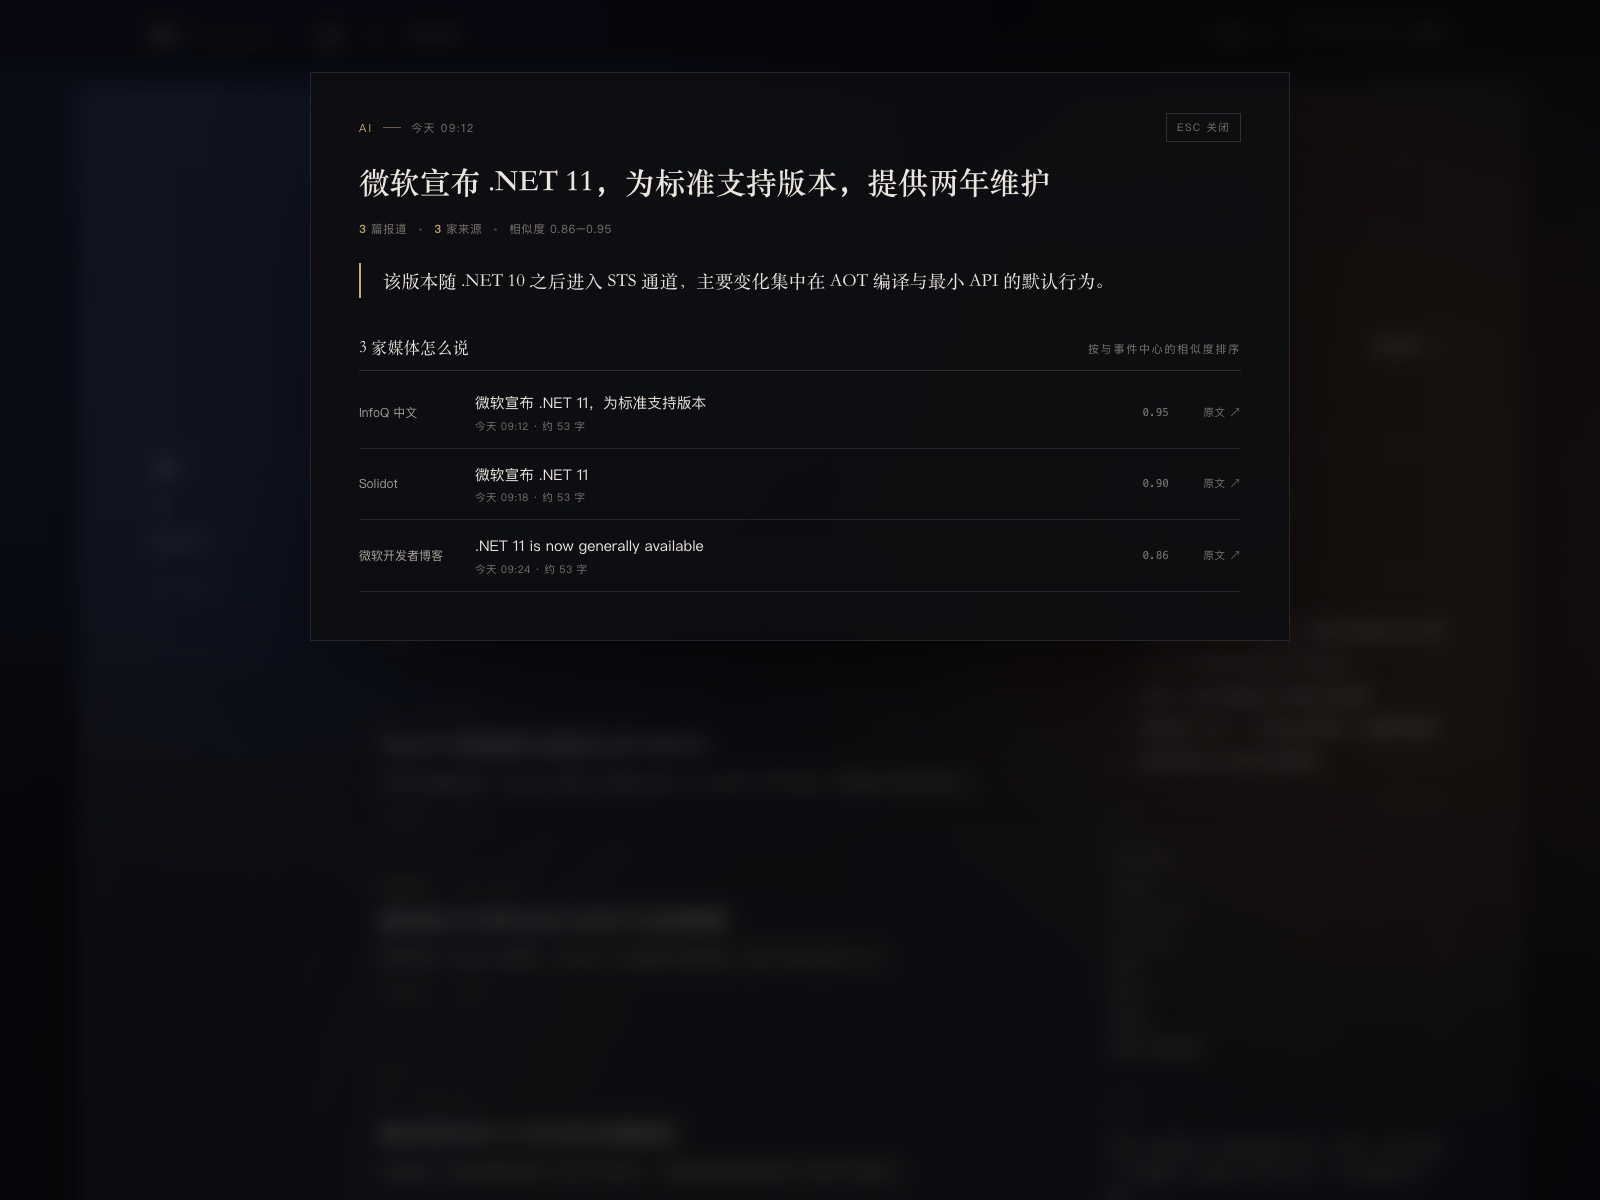
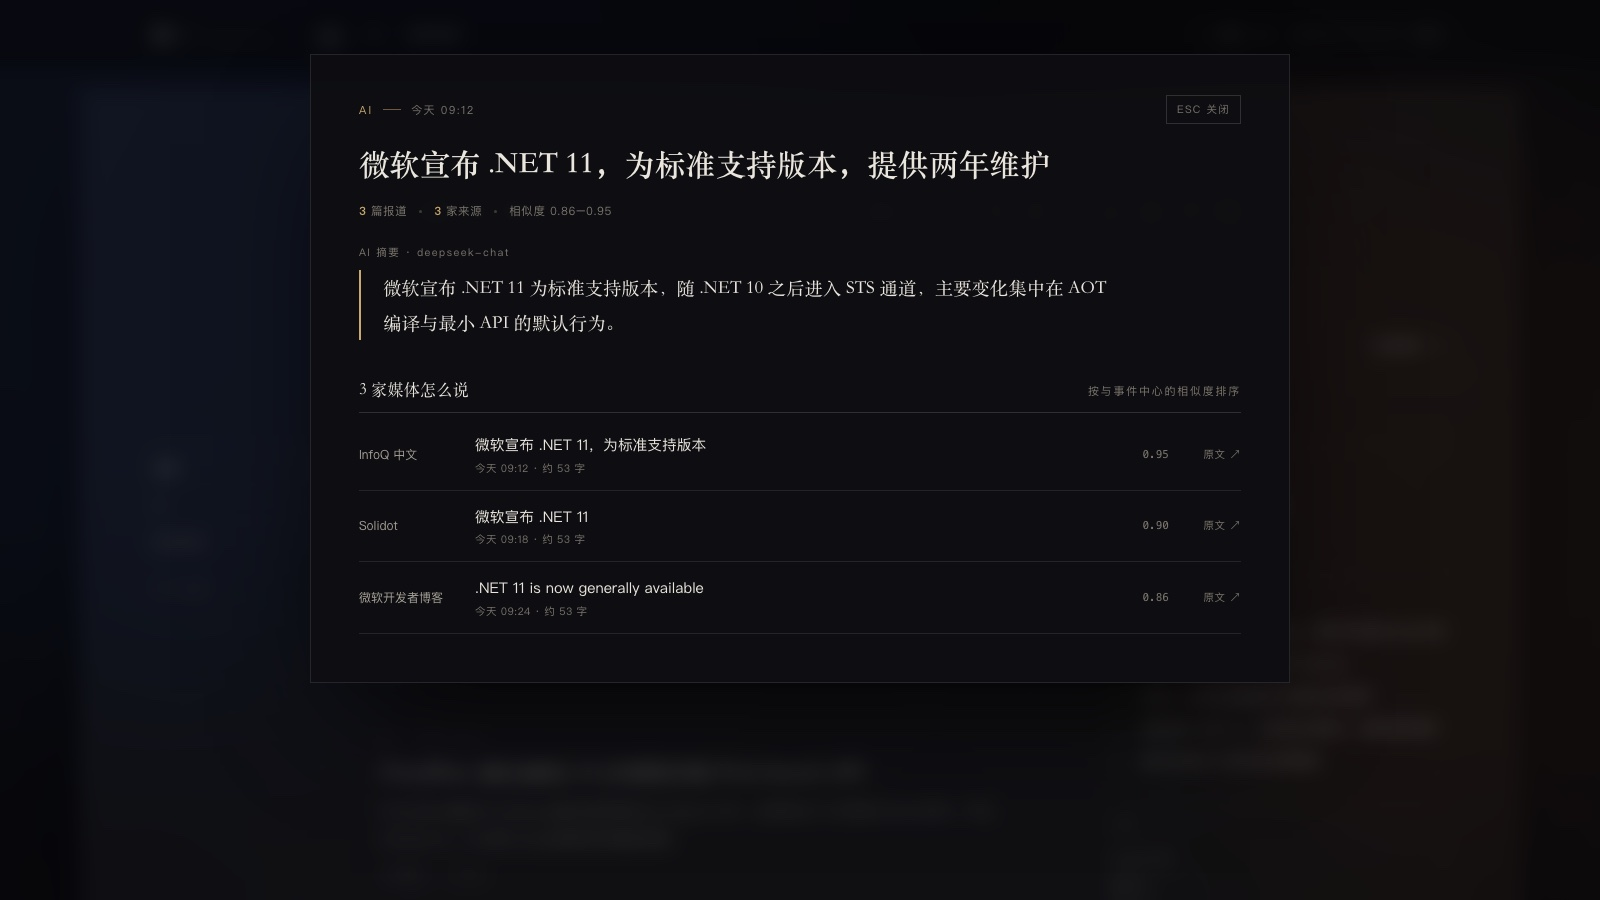
chore: DeepSeek 摘要实测数据与截图更新

diff --git a/web/src/styles.css b/web/src/styles.css
@@ -325,8 +325,8 @@ button { font: inherit; color: inherit; background: none; border: 0; cursor: poi
 }
 .detail-meta b { color: var(--accent); font-weight: 600; }
 .detail-sum-label {
-  margin-top: 26px; font-size: 10.5px; letter-spacing: 0.18em;
-  color: var(--faint); text-transform: uppercase;
+  margin-top: 26px; font-size: 10.5px; letter-spacing: 0.14em;
+  color: var(--faint);
 }
 .detail-sum {
   margin-top: 10px; padding-left: 22px; border-left: 2px solid var(--accent);

diff --git a/docs/pipeline.md b/docs/pipeline.md
@@ -53,8 +53,10 @@ cp .env.example .env
 命令会打印 token 数与估算花费：
 
 ```
-摘要 33 条：模型 33，抽取式 0；tokens 入 41200 / 出 3300，估算花费 ¥0.048
+摘要 33 条：模型 33，抽取式 0；tokens 入 13500 / 出 1338，估算花费 ¥0.0162
 ```
+
+2026-11-11 实测：33 个事件（含种子数据）全量重跑，41.8 秒，1.35 万输入 token，¥0.016。
 
 成本对应的 PRD 指标是 ≤5 元/天。按每天 40 个事件、每个事件 6 篇 700 字材料估算，一天大约 0.3–0.6 元，留了一到两个数量级的余量。
 
